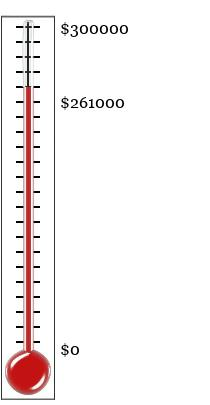
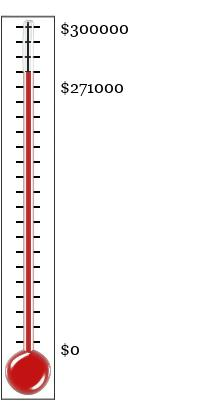
2Keys takes us to $271K.

Changed region(s): [[0.2857, 0.1778, 0.6, 0.2667], [0.0857, 0.1778, 0.1714, 0.237]]

diff --git a/contributors.html b/contributors.html
@@ -108,18 +108,19 @@ $5000 or more, and display your logo for donations of $10,000 or more.
 <UL>
 <LI> Iridium: $100,000 and above
 <UL>
-<LI><A HREF=http://www.handshake.org>Handshake</A>
+<LI><A HREF=https://www.handshake.org>Handshake</A>
 </UL>
 <LI> Platinum: $50,000 to $100,000
 <UL>
 <LI><A HREF=donations.html>Total from smaller donors</A>
-<LI><A HREF=http://www.yandex.com>Yandex</A>
+<LI><A HREF=https://www.yandex.com>Yandex</A>
 </UL>
 <LI> Gold: $25,000 to $50,000
 <UL>
 </UL>
 <LI> Silver: $10,000 to $25,000
 <UL>
+<LI><A HREF=https://www.2keys.com>2Keys Security Solutions</A>
 </UL>
 <LI> Bronze: $5,000 to $10,000
 <UL>
